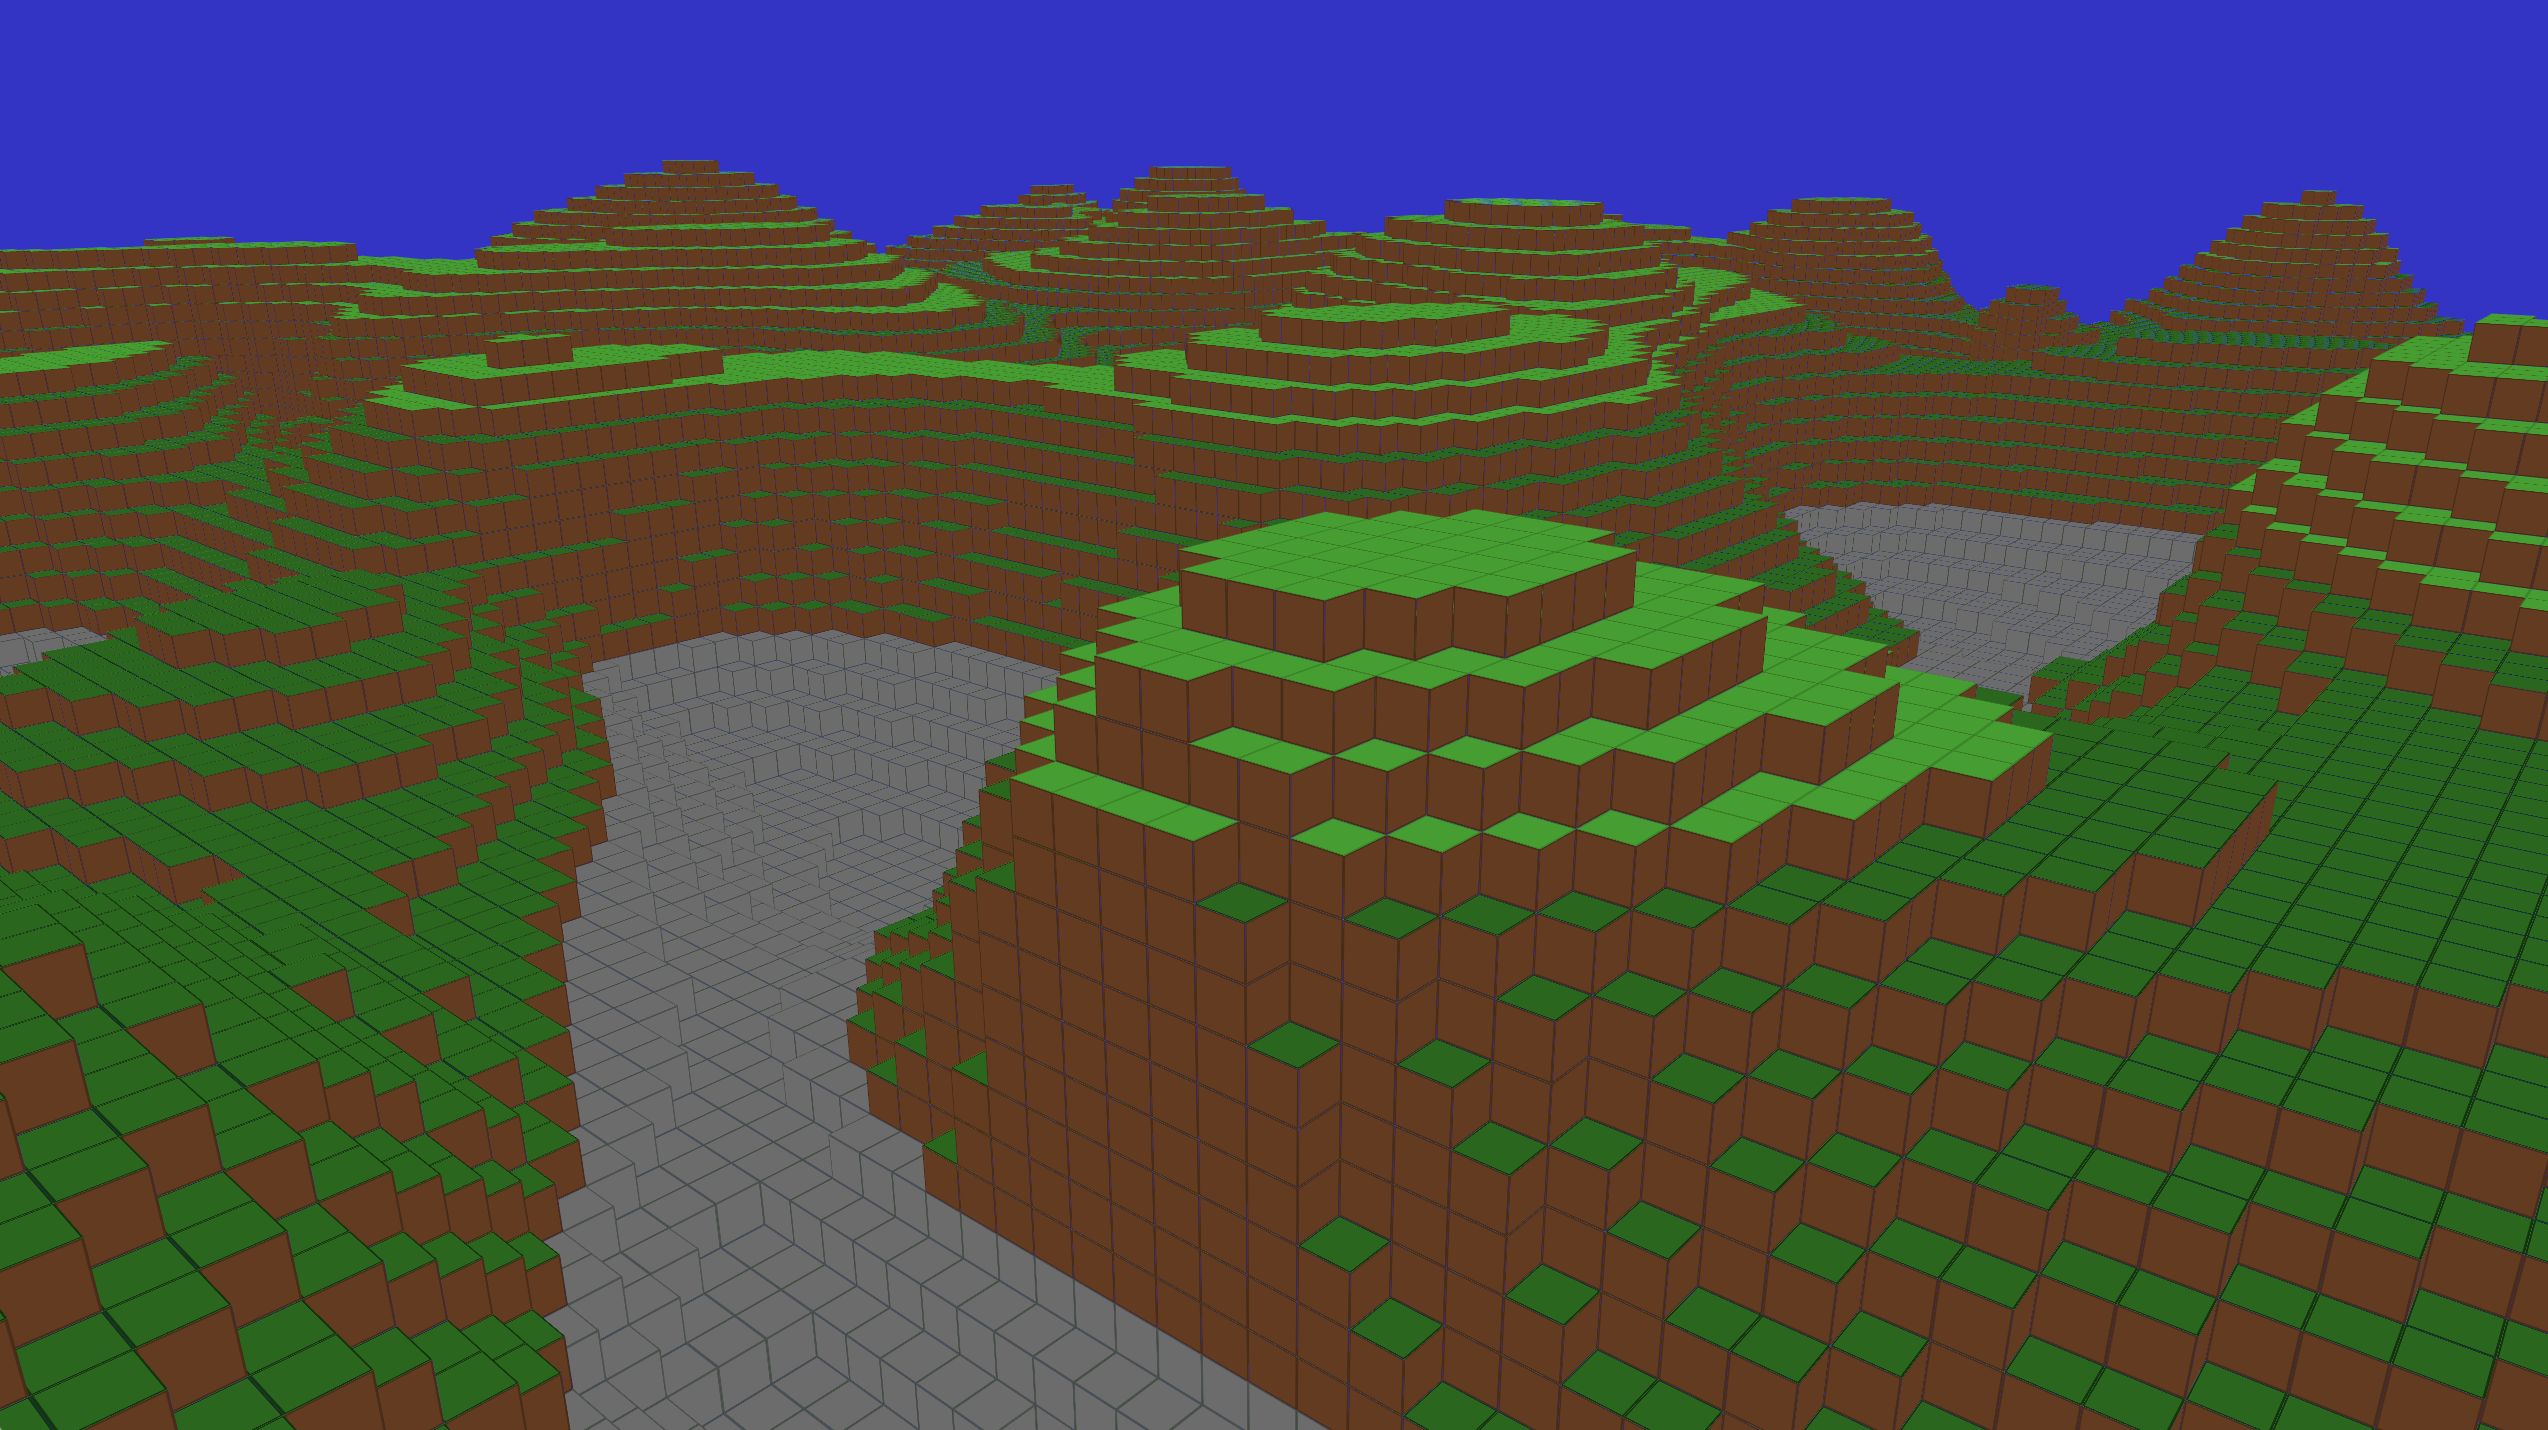
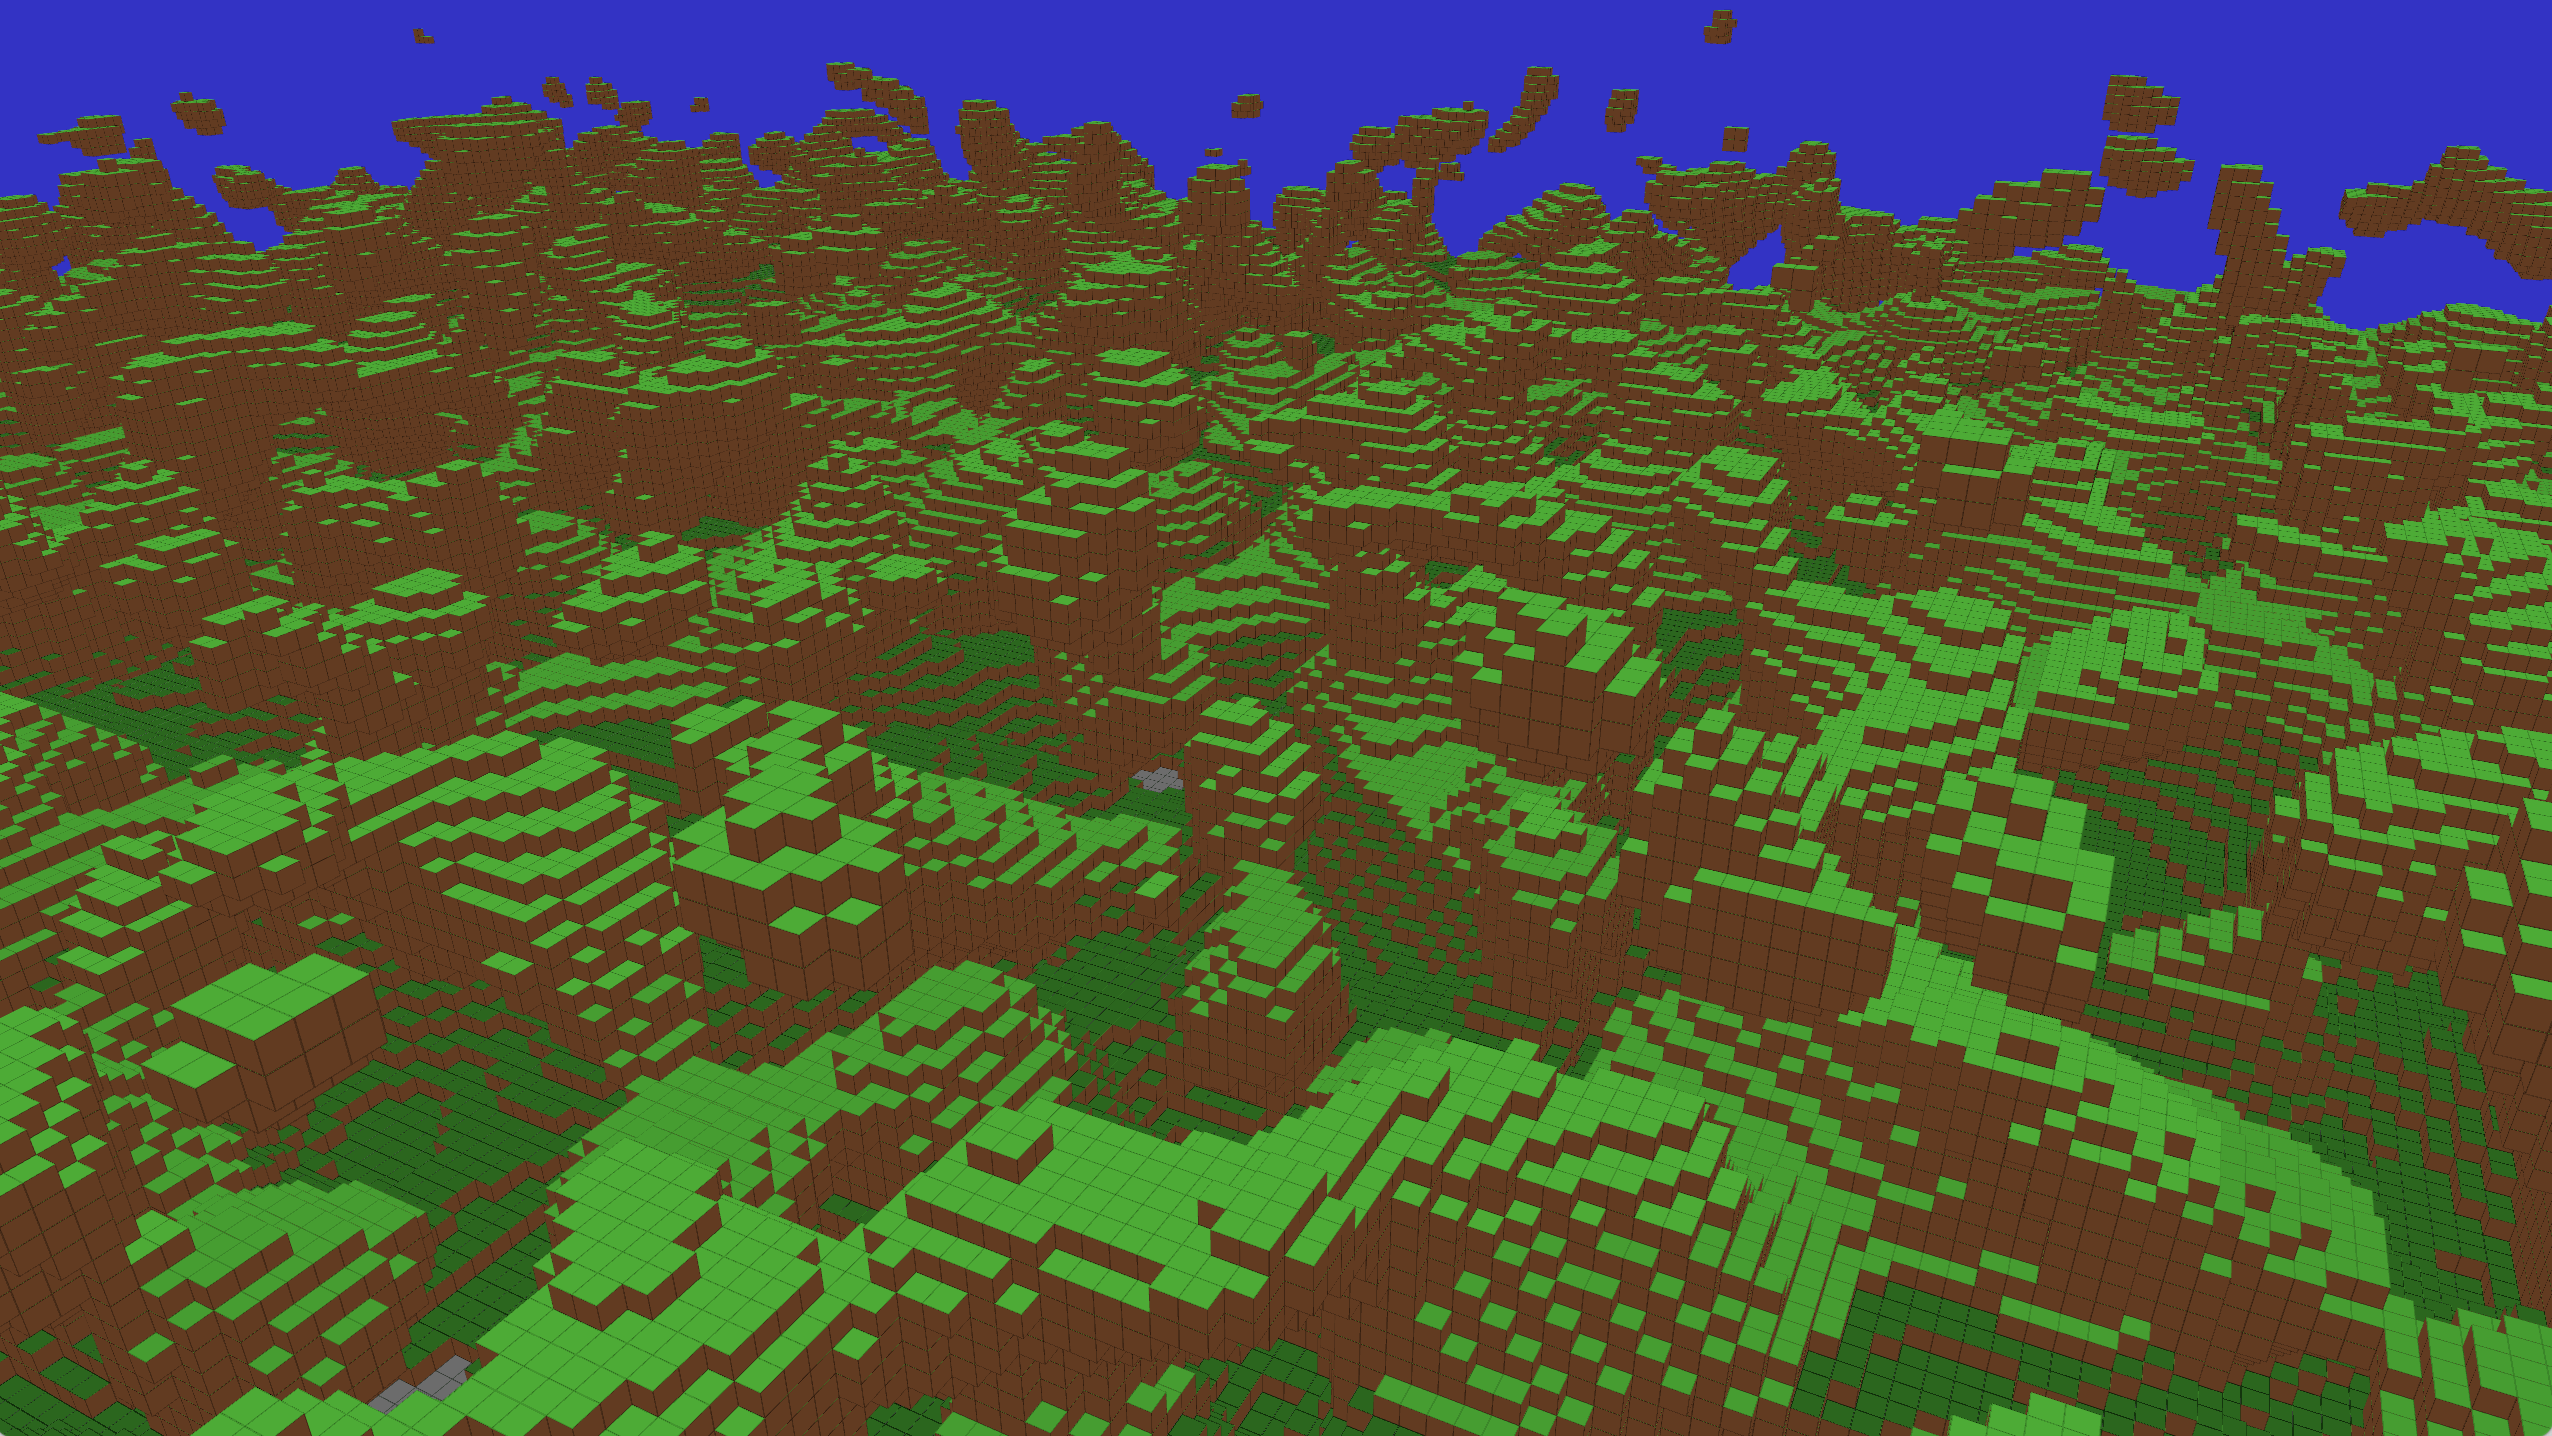
Increased render distance and chunk height

diff --git a/src/chunk_vertexes.rs b/src/chunk_vertexes.rs
@@ -82,7 +82,7 @@ struct OffsetAndDirection {
 fn generate_chunk_mesh_from_voxel(chunk: &Chunk) -> ChunkMeshGenResult {
     let mut voxel_quads: Vec<VoxelQuad> = Vec::new();
 
-    for n in 0..(32 * 32 * 32) {
+    for n in 0..((chunk.size.x * chunk.size.y * chunk.size.z) as usize) {
         if !chunk.voxels[n].solid {
             continue
         }
@@ -108,7 +108,7 @@ fn generate_chunk_mesh_from_voxel(chunk: &Chunk) -> ChunkMeshGenResult {
             let mut add_face = || voxel_quads.push(generate_voxel_quad(offset_and_direction.direction.clone(), x, y, z));
 
             // Height OOB - since no chunks above or below
-            if neighbour_voxel_location.y == 32 {
+            if neighbour_voxel_location.y == chunk.size.y {
                 if offset_and_direction.direction == QuadDirection::TOP {
                     add_face();
                 }

diff --git a/src/main.rs b/src/main.rs
@@ -1,6 +1,4 @@
 mod chunk_utils;
-mod map;
-mod point;
 mod chunk;
 mod chunk_vertexes;
 mod chunk_manager;
@@ -23,7 +21,7 @@ fn init(
     mut materials: ResMut<Assets<StandardMaterial>>,
     asset_server: Res<AssetServer>,
 ) {
-    let start_transform = Transform::from_translation(Vec3::new(32.0, 30.0, 32.0));
+    let start_transform = Transform::from_translation(Vec3::new(32.0, 64.0, 32.0));
 
     commands
         .spawn()
@@ -45,7 +43,7 @@ fn init(
             ..Default::default()
         });
 
-    let chunk_size = IVec3::new(32, 32, 32);
+    let chunk_size = IVec3::new(32, 64, 32);
     let center_chunk_location = get_chunk_containing_position(&start_transform.translation, &chunk_size);
     let atlas = materials.add(StandardMaterial {
         base_color_texture: Some(asset_server.load("atlas.png").clone()),

diff --git a/src/chunk.rs b/src/chunk.rs
@@ -72,7 +72,7 @@ impl Chunk {
     }
 
     pub fn get_voxel(&self, xyz: &IVec3) -> &Voxel {
-        return &self.voxels[xyz_to_voxel_index(xyz.x as usize, xyz.y as usize, xyz.z as usize)];
+        return &self.voxels[xyz_to_voxel_index(&xyz, &self.size)];
     }
 }
 
@@ -99,7 +99,7 @@ fn generate_voxel_at_xyz(noise_generator: &OpenSimplexNoise, global_xyz: &IVec3)
    // let chance = (flat_chunk().calculate_solid_probability)(global_xyz.x as f32, global_xyz.y as f32, global_xyz.z as f32);
 
     // The chance of the voxel being solid, increases the lower y is
-    let chance = (global_xyz.y as f64 / 32.0);
+    let chance = (((global_xyz.y - 8) as f64).log10() / (64.0_f64).log10());
 
     let solid = val as f64 > chance;
 

diff --git a/src/chunk_utils.rs b/src/chunk_utils.rs
@@ -1,15 +1,7 @@
 use crate::IVec3;
 
-pub const CHUNK_SIZE_X: usize = 32;
-pub const CHUNK_SIZE_Y: usize = 32;
-pub const CHUNK_SIZE_Z: usize = 32;
-
-pub const CHUNK_SIZE_X_I32: i32 = CHUNK_SIZE_X as i32;
-pub const CHUNK_SIZE_Y_I32: i32 = CHUNK_SIZE_Y as i32;
-pub(crate) const CHUNK_SIZE_Z_I32: i32 = CHUNK_SIZE_Z as i32;
-
-pub fn xyz_to_voxel_index(x: usize, y: usize, z: usize) -> usize {
-    x + (y * CHUNK_SIZE_X) + (z * CHUNK_SIZE_X * CHUNK_SIZE_Y)
+pub fn xyz_to_voxel_index(xyz: &IVec3, chunk_size: &IVec3) -> usize {
+    (xyz.x + (xyz.y * chunk_size.x) + (xyz.z * chunk_size.x * chunk_size.y)) as usize
 }
 
 pub fn voxel_index_to_xyz(idx: i32, chunk_size: &IVec3) -> IVec3 {

diff --git a/src/chunk_manager.rs b/src/chunk_manager.rs
@@ -30,7 +30,7 @@ impl ChunkManager {
             atlas,
             spawned_chunks: std::sync::Mutex::new(Vec::new()),
             chunks_currently_being_spawned: std::sync::Mutex::new(Vec::new()), // The thread is doing work to spawn this chunk, once spawned it is removed from here and pushed to spawned_chunks
-            chunk_render_distance: 3,
+            chunk_render_distance: 8,
             chunk_render_distance_y_range: 0..1,
         }
     }
